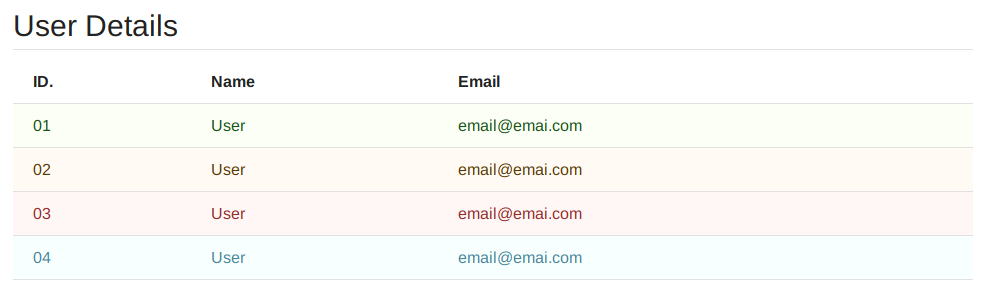
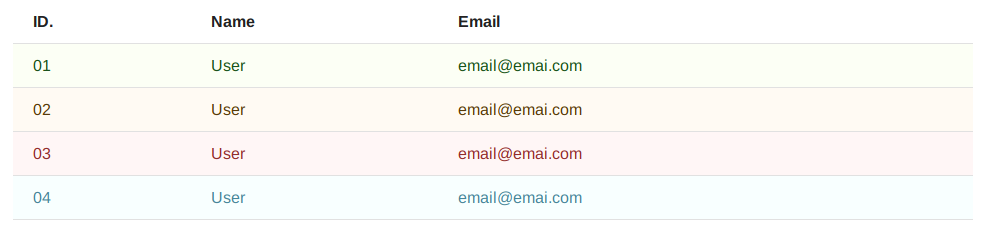
August 25, 2019 - 05:24:14 PM

diff --git a/README.md b/README.md
@@ -28,7 +28,6 @@ Event colors can be applied to various elements. They style the border, backgrou
 ![Tables](screenshots/table.png)
 ```css
 <table class="u-full-width">
-  <legend>User Details</legend>
   <thead>
     <tr>
       <th>ID.</th>
@@ -65,7 +64,6 @@ Event colors can be applied to various elements. They style the border, backgrou
 ![Tables with Event Colors](screenshots/table_event_colors.png)
 ```css
 <table class="u-full-width">
-  <legend>User Details</legend>
   <thead>
     <tr>
       <th>ID.</th>
